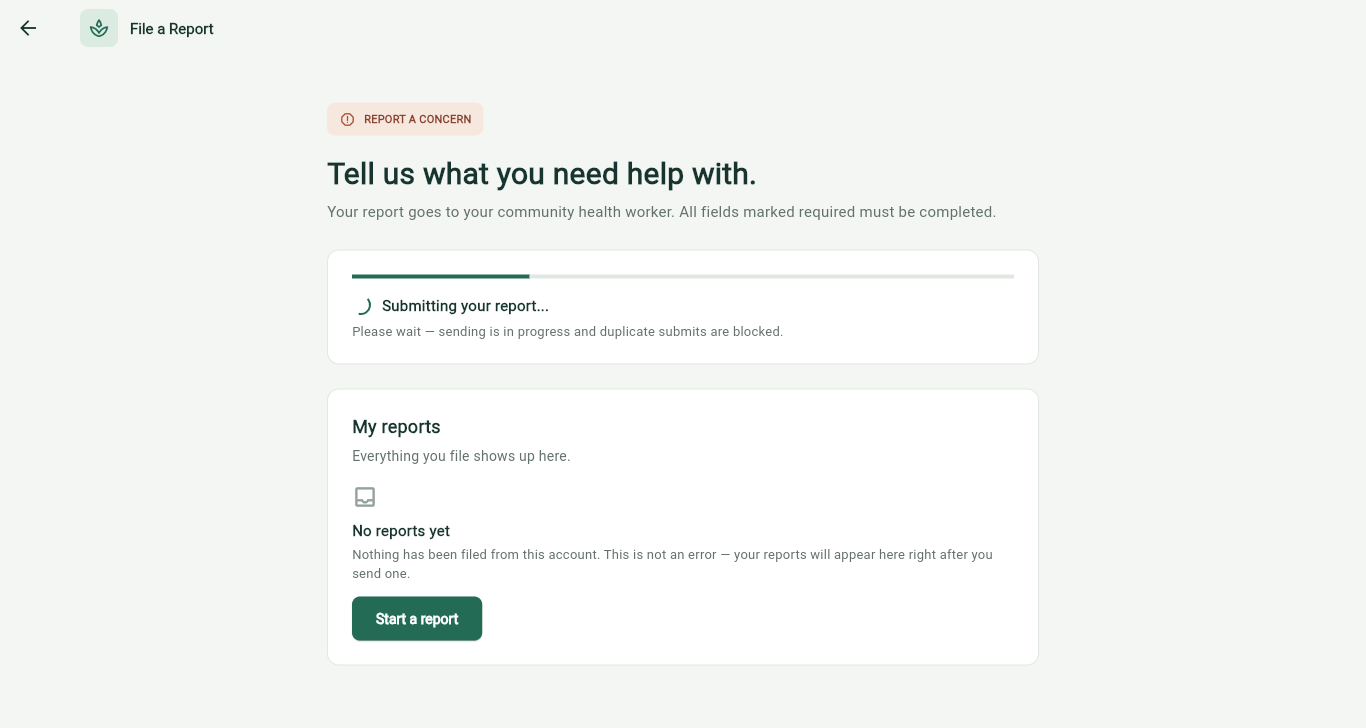
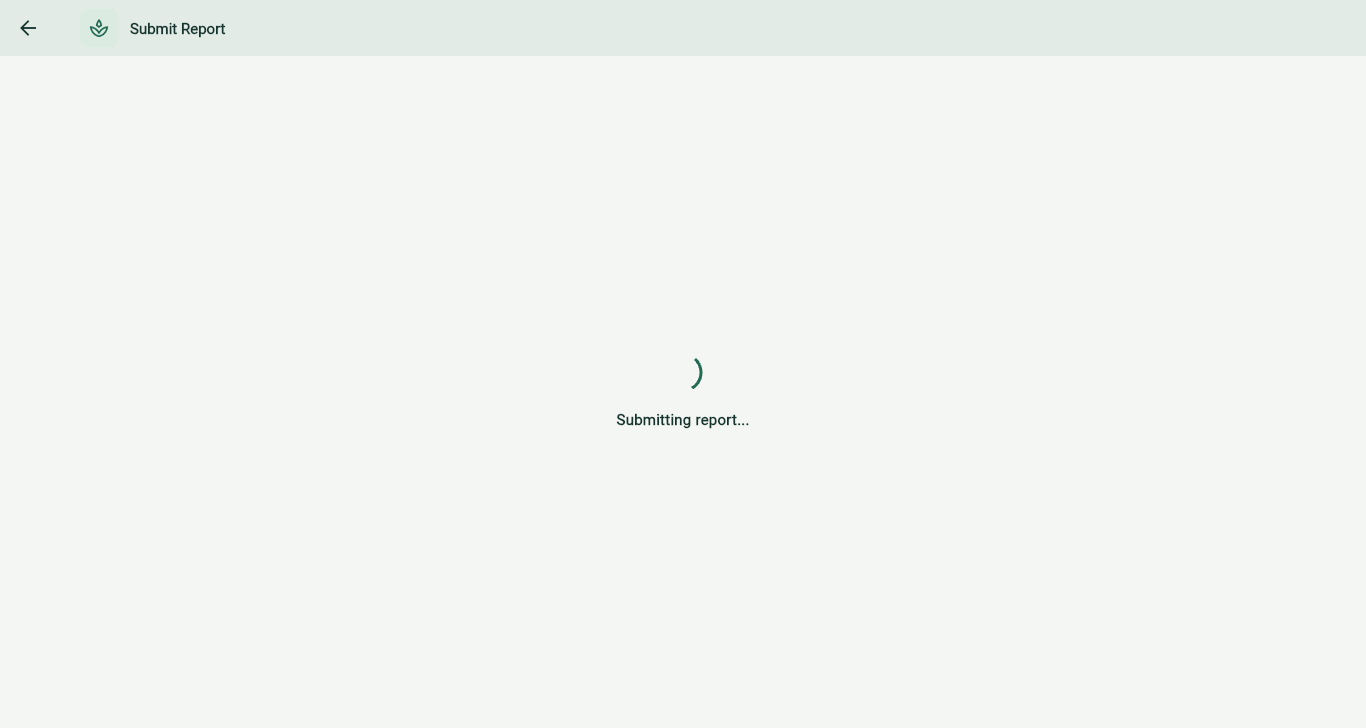
Redesign Submit Report loading state to match reference; recapture screenshots

diff --git a/coco_jay_project/lib/screens/report_form_screen.dart b/coco_jay_project/lib/screens/report_form_screen.dart
@@ -177,7 +177,7 @@ class _ReportFormScreenState extends State<ReportFormScreen> {
             ),
             const SizedBox(width: 12),
             const Text(
-              'File a Report',
+              'Submit Report',
               style: TextStyle(
                 color: Color(0xFF17352E),
                 fontSize: 15,
@@ -187,84 +187,108 @@ class _ReportFormScreenState extends State<ReportFormScreen> {
           ],
         ),
       ),
-      body: Center(
-        child: ConstrainedBox(
-          constraints: const BoxConstraints(maxWidth: 760),
-          child: SingleChildScrollView(
-            padding: const EdgeInsets.fromLTRB(24, 32, 24, 48),
-            child: Column(
-              crossAxisAlignment: CrossAxisAlignment.start,
-              children: [
-                Container(
-                  padding: const EdgeInsets.symmetric(
-                    horizontal: 12,
-                    vertical: 8,
+      body: _submitting
+          ? const Center(
+              child: Column(
+                mainAxisSize: MainAxisSize.min,
+                children: [
+                  SizedBox(
+                    width: 36,
+                    height: 36,
+                    child: CircularProgressIndicator(
+                      strokeWidth: 3,
+                      color: Color(0xFF236B55),
+                    ),
                   ),
-                  decoration: BoxDecoration(
-                    color: const Color(0xFFF7E8DF),
-                    borderRadius: BorderRadius.circular(8),
+                  SizedBox(height: 18),
+                  Text(
+                    'Submitting report...',
+                    style: TextStyle(
+                      color: Color(0xFF17352E),
+                      fontSize: 15,
+                      fontWeight: FontWeight.w600,
+                    ),
                   ),
-                  child: const Row(
-                    mainAxisSize: MainAxisSize.min,
+                ],
+              ),
+            )
+          : Center(
+              child: ConstrainedBox(
+                constraints: const BoxConstraints(maxWidth: 760),
+                child: SingleChildScrollView(
+                  padding: const EdgeInsets.fromLTRB(24, 32, 24, 48),
+                  child: Column(
+                    crossAxisAlignment: CrossAxisAlignment.start,
                     children: [
-                      Icon(
-                        Icons.report_gmailerrorred_outlined,
-                        color: Color(0xFFA34F32),
-                        size: 17,
+                      Container(
+                        padding: const EdgeInsets.symmetric(
+                          horizontal: 12,
+                          vertical: 8,
+                        ),
+                        decoration: BoxDecoration(
+                          color: const Color(0xFFF7E8DF),
+                          borderRadius: BorderRadius.circular(8),
+                        ),
+                        child: const Row(
+                          mainAxisSize: MainAxisSize.min,
+                          children: [
+                            Icon(
+                              Icons.report_gmailerrorred_outlined,
+                              color: Color(0xFFA34F32),
+                              size: 17,
+                            ),
+                            SizedBox(width: 8),
+                            Text(
+                              'REPORT A CONCERN',
+                              style: TextStyle(
+                                color: Color(0xFF87432C),
+                                fontSize: 11,
+                                fontWeight: FontWeight.w700,
+                              ),
+                            ),
+                          ],
+                        ),
                       ),
-                      SizedBox(width: 8),
-                      Text(
-                        'REPORT A CONCERN',
+                      const SizedBox(height: 20),
+                      const Text(
+                        'Tell us what you need help with.',
                         style: TextStyle(
-                          color: Color(0xFF87432C),
-                          fontSize: 11,
+                          color: Color(0xFF17352E),
+                          fontSize: 30,
+                          height: 1.15,
                           fontWeight: FontWeight.w700,
                         ),
+                      ),
+                      const SizedBox(height: 10),
+                      const Text(
+                        'Your report goes to your community health worker. '
+                        'All fields marked required must be completed.',
+                        style: TextStyle(
+                          color: Color(0xFF63716C),
+                          fontSize: 15,
+                          height: 1.5,
+                        ),
+                      ),
+                      const SizedBox(height: 26),
+                      KeyedSubtree(
+                        key: _formSectionKey,
+                        child: _buildSubmitSection(),
+                      ),
+                      const SizedBox(height: 24),
+                      _ReportsCard(
+                        status: _reportsStatus,
+                        reports: _myReports,
+                        onStartAction: _focusForm,
                       ),
                     ],
                   ),
                 ),
-                const SizedBox(height: 20),
-                const Text(
-                  'Tell us what you need help with.',
-                  style: TextStyle(
-                    color: Color(0xFF17352E),
-                    fontSize: 30,
-                    height: 1.15,
-                    fontWeight: FontWeight.w700,
-                  ),
-                ),
-                const SizedBox(height: 10),
-                const Text(
-                  'Your report goes to your community health worker. '
-                  'All fields marked required must be completed.',
-                  style: TextStyle(
-                    color: Color(0xFF63716C),
-                    fontSize: 15,
-                    height: 1.5,
-                  ),
-                ),
-                const SizedBox(height: 26),
-                KeyedSubtree(
-                  key: _formSectionKey,
-                  child: _buildSubmitSection(),
-                ),
-                const SizedBox(height: 24),
-                _ReportsCard(
-                  status: _reportsStatus,
-                  reports: _myReports,
-                  onStartAction: _focusForm,
-                ),
-              ],
+              ),
             ),
-          ),
-        ),
-      ),
     );
   }
 
   Widget _buildSubmitSection() {
-    if (_submitting) return const _SubmittingPanel();
     if (_submitted != null) {
       return _SuccessPanel(entry: _submitted!, onFileAnother: _fileAnother);
     }
@@ -366,9 +390,7 @@ class _ReportForm extends StatelessWidget {
             TextFormField(
               controller: nameController,
               validator: validateName,
-              decoration: _fieldDecoration.copyWith(
-                labelText: 'Full name *',
-              ),
+              decoration: _fieldDecoration.copyWith(labelText: 'Full name *'),
             ),
             const SizedBox(height: 16),
             TextFormField(
@@ -430,66 +452,6 @@ class _ReportForm extends StatelessWidget {
             ),
           ],
         ),
-      ),
-    );
-  }
-}
-
-class _SubmittingPanel extends StatelessWidget {
-  const _SubmittingPanel();
-
-  @override
-  Widget build(BuildContext context) {
-    return Container(
-      width: double.infinity,
-      padding: const EdgeInsets.all(24),
-      decoration: BoxDecoration(
-        color: Colors.white,
-        borderRadius: BorderRadius.circular(12),
-        border: Border.all(color: const Color(0xFFE1E8E2)),
-      ),
-      child: const Column(
-        crossAxisAlignment: CrossAxisAlignment.start,
-        children: [
-          LinearProgressIndicator(
-            minHeight: 4,
-            color: Color(0xFF236B55),
-            backgroundColor: Color(0xFFE1E8E2),
-          ),
-          SizedBox(height: 16),
-          Row(
-            children: [
-              SizedBox(
-                width: 18,
-                height: 18,
-                child: CircularProgressIndicator(
-                  strokeWidth: 2,
-                  color: Color(0xFF236B55),
-                ),
-              ),
-              SizedBox(width: 12),
-              Expanded(
-                child: Text(
-                  'Submitting your report...',
-                  style: TextStyle(
-                    color: Color(0xFF17352E),
-                    fontSize: 15,
-                    fontWeight: FontWeight.w700,
-                  ),
-                ),
-              ),
-            ],
-          ),
-          SizedBox(height: 6),
-          Text(
-            'Please wait — sending is in progress and duplicate submits are blocked.',
-            style: TextStyle(
-              color: Color(0xFF63716C),
-              fontSize: 13,
-              height: 1.4,
-            ),
-          ),
-        ],
       ),
     );
   }
@@ -596,11 +558,7 @@ class _ErrorPanel extends StatelessWidget {
         children: [
           const Row(
             children: [
-              Icon(
-                Icons.error_outline,
-                color: Color(0xFFA34F32),
-                size: 24,
-              ),
+              Icon(Icons.error_outline, color: Color(0xFFA34F32), size: 24),
               SizedBox(width: 10),
               Expanded(
                 child: Text(
@@ -771,11 +729,7 @@ class _ReportsCard extends StatelessWidget {
         ];
       case _ReportsStatus.empty:
         return [
-          const Icon(
-            Icons.inbox_outlined,
-            color: Color(0xFF94A29C),
-            size: 26,
-          ),
+          const Icon(Icons.inbox_outlined, color: Color(0xFF94A29C), size: 26),
           const SizedBox(height: 10),
           const Text(
             'No reports yet',

diff --git a/coco_jay_project/test/widget_test.dart b/coco_jay_project/test/widget_test.dart
@@ -177,7 +177,7 @@ void main() {
     await tester.pump();
 
     // Loading state while submitting.
-    expect(find.text('Submitting your report...'), findsOneWidget);
+    expect(find.text('Submitting report...'), findsOneWidget);
     await tester.pump(const Duration(seconds: 2));
     await tester.pump();
 
@@ -210,7 +210,7 @@ void main() {
     await tester.pump();
     await tester.tap(find.widgetWithText(ElevatedButton, 'Submit report'));
     await tester.pump();
-    expect(find.text('Submitting your report...'), findsOneWidget);
+    expect(find.text('Submitting report...'), findsOneWidget);
     await tester.pump(const Duration(seconds: 2));
     await tester.pump();
 
